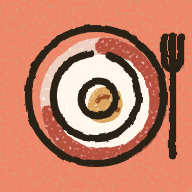
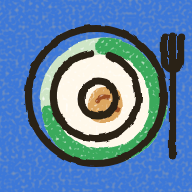
Byt färgtema till Blågrön, i appikonens färger
Poängringen och staplarna är tryckt gräsgröna som ringen i appikonen,
och dagar över 100 är skogsgröna. Knappar och länkar är dovt riso-blå.
Bakgrunden är fortfarande krämvit med varmt bläck som text, och mörkt
läge är varmt bläcksvart. Appikonen har tillbaka sina ursprungliga blå
och gröna färger, och theme-color och manifestet följer med.

diff --git a/src/styles/tokens.css b/src/styles/tokens.css
@@ -1,26 +1,28 @@
-/* Färgtema Persika: korall och aprikos på krämvitt, länkar och "över 100" i dov bärros.
-   Mörkt läge i varm espresso i stället för helsvart. */
+/* Färgtema Blågrön, i appikonens färger: tryckt gräsgrön ring och riso-blå knappar och länkar
+   på krämvitt papper med varmt bläck som text. Mörkt läge i varmt bläcksvart i stället för helsvart. */
 :root {
-  --bg: #f8f1ea;
-  --card: #fffcf9;
-  --card-pressed: #f1e6dd;
-  --elevated: #fffcf9;
-  --fill: rgba(130, 98, 84, 0.12);
-  --fill-strong: rgba(130, 98, 84, 0.2);
+  --bg: #f6f1e7;
+  --card: #fffdf8;
+  --card-pressed: #efe8db;
+  --elevated: #fffdf8;
+  --fill: rgba(120, 100, 78, 0.12);
+  --fill-strong: rgba(120, 100, 78, 0.2);
   --label: #2b2118;
-  --label-2: rgba(92, 66, 54, 0.66);
-  --label-3: rgba(92, 66, 54, 0.32);
-  --separator: rgba(92, 66, 54, 0.16);
-  --accent: #f08668;
-  --accent-deep: #9e4358;
-  --accent-soft: rgba(240, 134, 104, 0.18);
-  /* Terrakotta för knappar med vit text (kontrast 4,9:1). */
-  --button: #b9513f;
-  --tint: #9e4358;
+  --label-2: rgba(88, 70, 54, 0.68);
+  --label-3: rgba(88, 70, 54, 0.32);
+  --separator: rgba(88, 70, 54, 0.16);
+  /* Ikonens gröna #3BAA5C, lite dovare. Över 100: djup skogsgrön. */
+  --accent: #47a160;
+  --accent-deep: #1e5c34;
+  --accent-soft: rgba(71, 161, 96, 0.2);
+  /* Ikonens blå #3D78D8, dämpad och mörk nog för knappar med vit text (kontrast 4,9:1). */
+  --button: #466fbd;
+  /* Länkar i samma blå, djupare så att de också läses på --fill. */
+  --tint: #3359a2;
   --danger: #d23a2f;
-  --bar: rgba(251, 246, 241, 0.84);
-  --scrim: rgba(43, 26, 18, 0.32);
-  --shadow: 0 8px 30px rgba(92, 50, 30, 0.12);
+  --bar: rgba(250, 247, 241, 0.84);
+  --scrim: rgba(36, 28, 20, 0.32);
+  --shadow: 0 8px 30px rgba(70, 52, 30, 0.12);
 
   --radius: 14px;
   --radius-lg: 20px;
@@ -36,43 +38,45 @@
 
 @media (prefers-color-scheme: dark) {
   :root {
-    --bg: #19120f;
-    --card: #271d19;
-    --card-pressed: #362a24;
-    --elevated: #271d19;
-    --fill: rgba(150, 120, 104, 0.24);
-    --fill-strong: rgba(150, 120, 104, 0.36);
-    --label: #f7efe9;
-    --label-2: rgba(245, 226, 214, 0.64);
-    --label-3: rgba(245, 226, 214, 0.3);
-    --separator: rgba(120, 95, 82, 0.55);
-    --accent: #ffbb98;
-    /* Ros i stället för bärros: skiljer sig från aprikosen och läses som text på --accent-soft. */
-    --accent-deep: #f07e8e;
-    --accent-soft: rgba(255, 187, 152, 0.12);
-    --tint: #f7a1b0;
+    --bg: #19140f;
+    --card: #26201a;
+    --card-pressed: #312a24;
+    --elevated: #26201a;
+    --fill: rgba(140, 128, 112, 0.24);
+    --fill-strong: rgba(140, 128, 112, 0.36);
+    --label: #f6f1e8;
+    --label-2: rgba(240, 230, 215, 0.64);
+    --label-3: rgba(240, 230, 215, 0.3);
+    --separator: rgba(110, 100, 88, 0.55);
+    /* Blek gräsgrön ring. Över 100 i mättare grön, som också läses som text på --accent-soft. */
+    --accent: #a6daa8;
+    --accent-deep: #52b165;
+    --accent-soft: rgba(166, 218, 168, 0.11);
+    --tint: #93b4f1;
     --danger: #ff453a;
-    --bar: rgba(30, 22, 18, 0.84);
+    --bar: rgba(30, 24, 19, 0.84);
     --scrim: rgba(0, 0, 0, 0.55);
     --shadow: 0 8px 30px rgba(0, 0, 0, 0.5);
   }
 }
 
-/* Inställningen Öka kontrast i iOS. */
+/* Inställningen Öka kontrast i iOS. --fill blir starkare, så länkarna blir det också. */
 @media (prefers-contrast: more) {
   :root {
-    --label-2: rgba(92, 66, 54, 0.92);
-    --label-3: rgba(92, 66, 54, 0.66);
-    --separator: rgba(92, 66, 54, 0.48);
-    --fill: rgba(130, 98, 84, 0.22);
+    --label-2: rgba(88, 70, 54, 0.92);
+    --label-3: rgba(88, 70, 54, 0.66);
+    --separator: rgba(88, 70, 54, 0.48);
+    --fill: rgba(120, 100, 78, 0.22);
+    --tint: #2c4f94;
   }
 }
 
 @media (prefers-contrast: more) and (prefers-color-scheme: dark) {
   :root {
-    --label-2: rgba(245, 226, 214, 0.9);
-    --label-3: rgba(245, 226, 214, 0.63);
-    --separator: rgba(170, 140, 125, 0.8);
-    --fill: rgba(150, 120, 104, 0.4);
+    --label-2: rgba(240, 230, 215, 0.9);
+    --label-3: rgba(240, 230, 215, 0.63);
+    --separator: rgba(160, 148, 132, 0.8);
+    --fill: rgba(140, 128, 112, 0.4);
+    --tint: #b0caf9;
   }
 }

diff --git a/src/styles/global.css b/src/styles/global.css
@@ -791,7 +791,7 @@ strong {
   padding: 10px 10px 10px 18px;
   min-height: 44px;
   border-radius: 999px;
-  background: rgba(43, 31, 26, 0.92);
+  background: rgba(38, 31, 24, 0.92);
   -webkit-backdrop-filter: blur(20px);
   backdrop-filter: blur(20px);
   color: #fff;
@@ -811,7 +811,7 @@ strong {
 
 @media (prefers-color-scheme: dark) {
   .toast {
-    background: rgba(72, 57, 50, 0.95);
+    background: rgba(60, 54, 47, 0.95);
   }
 }
 
@@ -827,8 +827,8 @@ strong {
   padding: 6px 12px;
   border-radius: 999px;
   background: rgba(255, 255, 255, 0.14);
-  /* Toasten är alltid mörk, så Ångra har mörka lägets aprikos i båda lägena. */
-  color: #ffbb98;
+  /* Toasten är alltid mörk, så Ångra är ljust blå i båda lägena. */
+  color: #b4cef8;
   font-weight: 600;
 }
 
@@ -1229,7 +1229,14 @@ strong {
 
 @media (prefers-color-scheme: dark) {
   .segmented-thumb {
-    background: #5e4b42;
+    background: #5c544a;
+  }
+}
+
+/* Med Öka kontrast blir spåret ljusare, så tummen måste också bli det. */
+@media (prefers-contrast: more) and (prefers-color-scheme: dark) {
+  .segmented-thumb {
+    background: #6c6359;
   }
 }
 
@@ -1719,7 +1726,7 @@ strong {
   transform: scale(1.05);
 }
 
-/* Accenten är ljus aprikos i mörkt läge, så bocken blir mörk för att synas. */
+/* Accenten är blekt grön i mörkt läge, så bocken blir mörk för att synas. */
 @media (prefers-color-scheme: dark) {
   .check.is-on {
     color: var(--bg);

diff --git a/index.html b/index.html
@@ -3,8 +3,8 @@
   <head>
     <meta charset="UTF-8" />
     <meta name="viewport" content="width=device-width, initial-scale=1, viewport-fit=cover" />
-    <meta name="theme-color" content="#F8F1EA" media="(prefers-color-scheme: light)" />
-    <meta name="theme-color" content="#19120F" media="(prefers-color-scheme: dark)" />
+    <meta name="theme-color" content="#F6F1E7" media="(prefers-color-scheme: light)" />
+    <meta name="theme-color" content="#19140F" media="(prefers-color-scheme: dark)" />
     <meta name="apple-mobile-web-app-capable" content="yes" />
     <meta name="mobile-web-app-capable" content="yes" />
     <meta name="apple-mobile-web-app-status-bar-style" content="default" />

diff --git a/vite.config.ts b/vite.config.ts
@@ -39,8 +39,8 @@ export default defineConfig({
         lang: 'sv',
         display: 'standalone',
         orientation: 'portrait',
-        background_color: '#F8F1EA',
-        theme_color: '#F8F1EA',
+        background_color: '#F6F1E7',
+        theme_color: '#F6F1E7',
         icons: [
           { src: 'icon-192.png', sizes: '192x192', type: 'image/png' },
           { src: 'icon-512.png', sizes: '512x512', type: 'image/png' },
